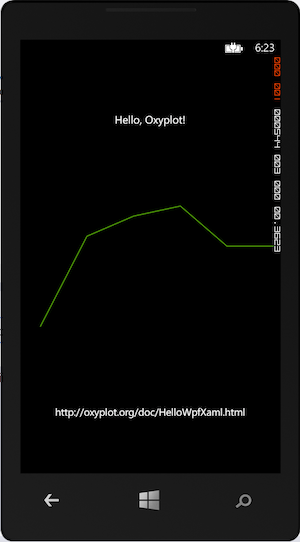
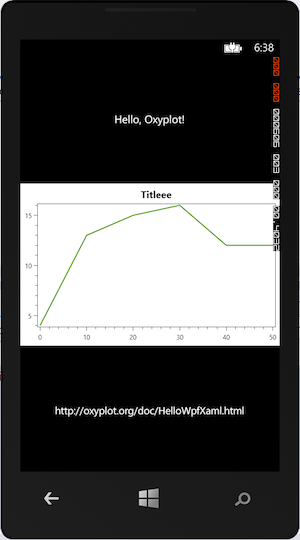
[oxyplot] add WinPhone background so it's readable

diff --git a/OxyPlotDemo/WinPhone/OxyPlotViewRenderer.cs b/OxyPlotDemo/WinPhone/OxyPlotViewRenderer.cs
@@ -18,7 +18,6 @@ namespace OxyPlotDemo.WinPhone
 {
     public class OxyPlotViewRenderer : ViewRenderer<OxyPlotView, PlotView>
     {
-
         protected override void OnElementChanged(ElementChangedEventArgs<OxyPlotView> e)
         {
             base.OnElementChanged(e);
@@ -27,9 +26,9 @@ namespace OxyPlotDemo.WinPhone
         
             var plotView = new PlotView();
 
-            plotView.Model = Element.Model;
-            
-            SetNativeControl(plotView);
+			plotView.Model = Element.Model;
+			plotView.Background = new SolidColorBrush(System.Windows.Media.Colors.White);
+			SetNativeControl(plotView);
         }
 
         protected override void OnElementPropertyChanged(object sender, PropertyChangedEventArgs e)

diff --git a/OxyPlotDemo/iOS/OxyPlotViewRenderer.cs b/OxyPlotDemo/iOS/OxyPlotViewRenderer.cs
@@ -56,7 +56,7 @@ namespace OxyPlotDemo.iOS
 		protected override void OnElementPropertyChanged (object sender, PropertyChangedEventArgs e)
 		{
 			base.OnElementPropertyChanged (sender, e);
-			if (e.PropertyName == BoxView.ColorProperty.PropertyName) {
+			if (e.PropertyName == OxyPlotView.BackgroundColorProperty.PropertyName) {
 				Control.BackgroundColor = Element.BackgroundColor.ToUIColor ();
 			}
 		}

diff --git a/OxyPlotDemo/Android/OxyPlotViewRenderer.cs b/OxyPlotDemo/Android/OxyPlotViewRenderer.cs
@@ -42,7 +42,7 @@ namespace OxyPlot.Android
 		{
 			base.OnElementPropertyChanged (sender, e);
 		
-			if (e.PropertyName == BoxView.ColorProperty.PropertyName) {
+			if (e.PropertyName == OxyPlotView.BackgroundColorProperty.PropertyName) {
 				NativeControl.SetBackgroundColor (NativeElement.BackgroundColor.ToAndroid ());
 			}
 		}
